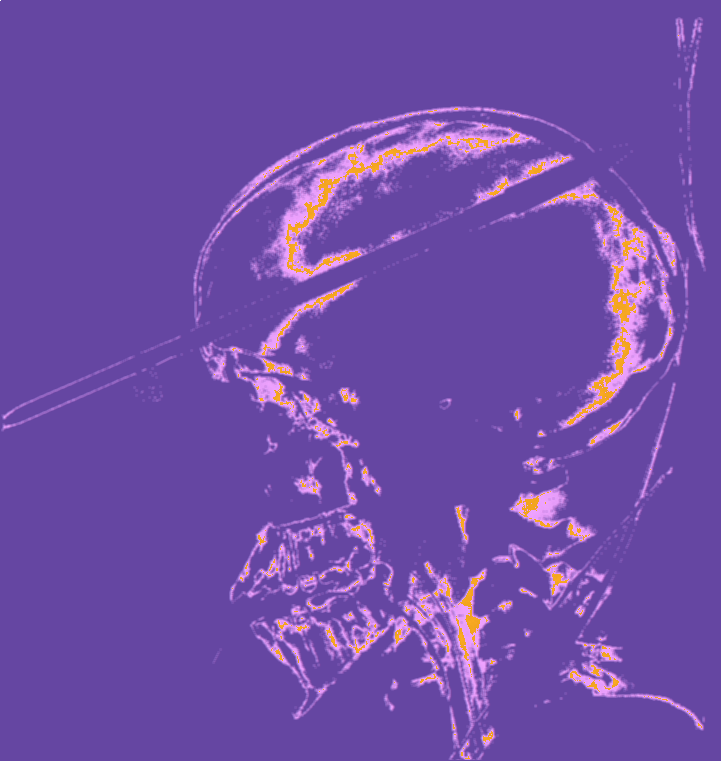
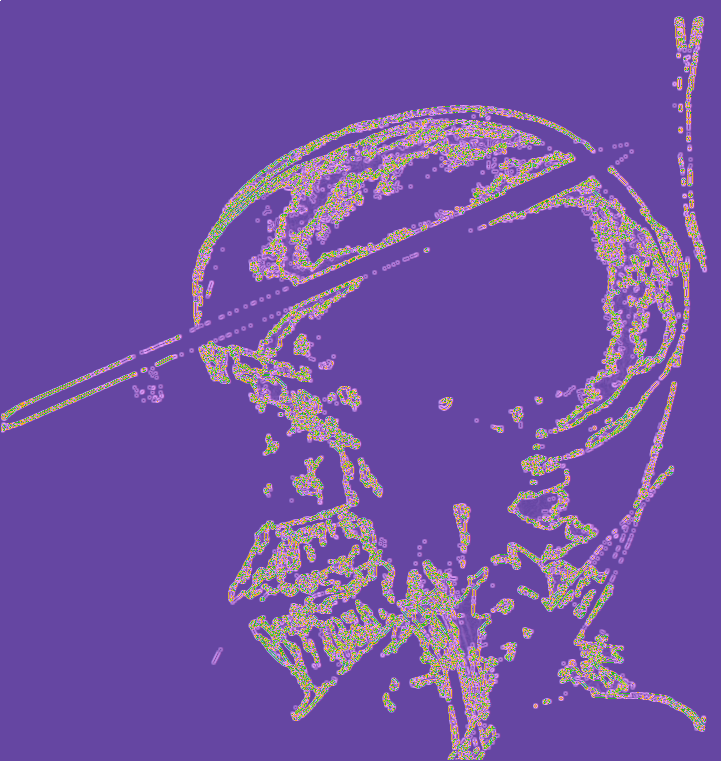
NEW GAUSS SOBEL

diff --git a/1course.c b/1course.c
@@ -157,13 +157,13 @@ int main() {
         image[k] = 0.299*picture[i] + 0.578*picture[i+1] + 0.114*picture[i+2];
         k++;
     }
-
+    char* image_0 = (char*)malloc(w*h*sizeof(char));
     char* image_1 = (char*)malloc(w*h*sizeof(char));
     char* data = (char*)malloc(n*w*h*sizeof(char));
 
     preparation(image, w, h);
-    fGauss(image, image_1, w, h);
-   // fSobel(image, image_1, w, h);
+    fGauss(image, image_0, w, h);
+    fSobel(image_0, image_1, w, h);
     colouring(image_1, data, w, h, n);
   /*  int* comps = (int*)malloc((n*w*h)*sizeof(int));
     for (i=0; i < w*h; i++) comps[i] = 0;
